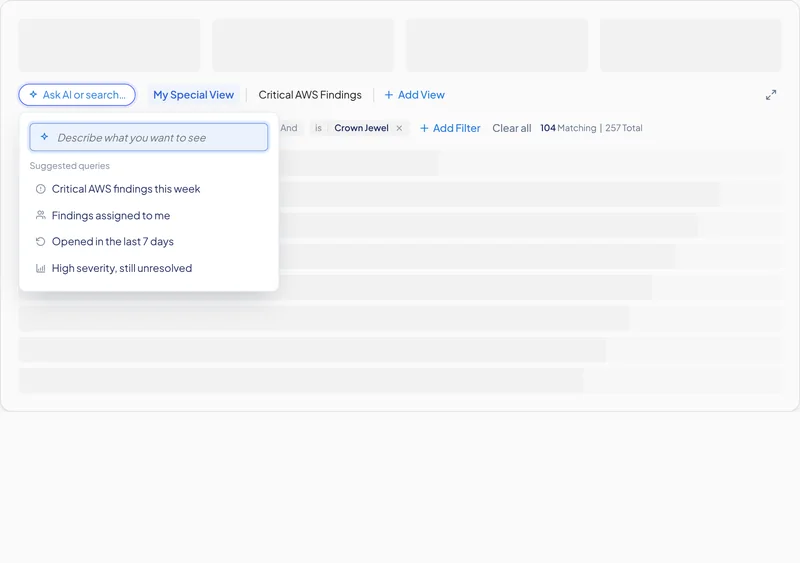
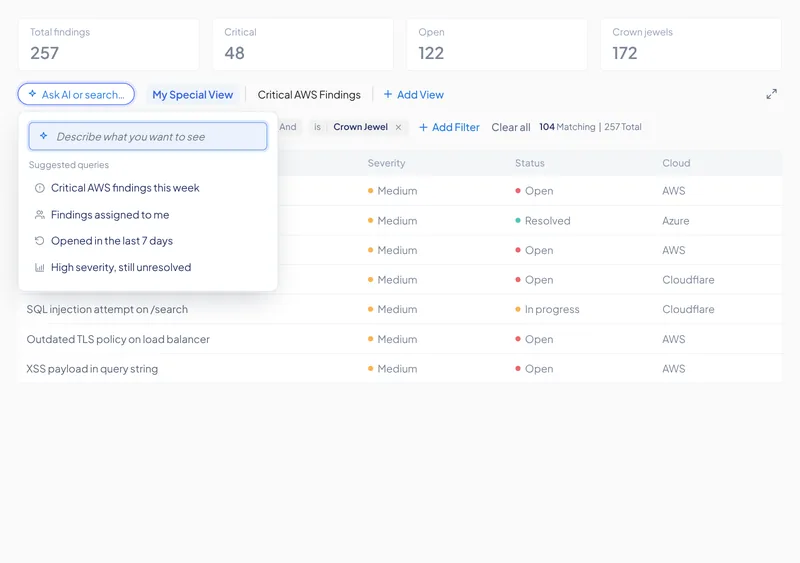
Filtering: faded mock findings table replaces grey placeholders
Claude-Session: https://claude.ai/code/session_01U3LnkADmWK6BWBvsiVpdjW

diff --git a/CHANGELOG.md b/CHANGELOG.md
@@ -1,5 +1,15 @@
 # Changelog
 
+## 2026-10-14 · Filtering: mock table instead of grey placeholders
+
+- Prototype: the grey bars are now a faded findings table (finding, severity, status, cloud)
+  built from the same demo data the filters run on, so every filter visibly changes the rows.
+  The four grey widgets became summary cards (total, critical, open, crown jewels). Phones
+  show finding + severity only. Seeded counts unchanged (104 of 257).
+- Homepage card: the bars are faded finding rows; after the AI adds filters, the two critical
+  AWS rows stay highlighted and the rest fade out.
+- Result flow: all six prototype captures retaken with the table.
+
 ## 2026-10-14 · Filtering before/after on phones
 
 - Under 640px the drag slider is replaced by a Before / After switch. Each side gets the full
